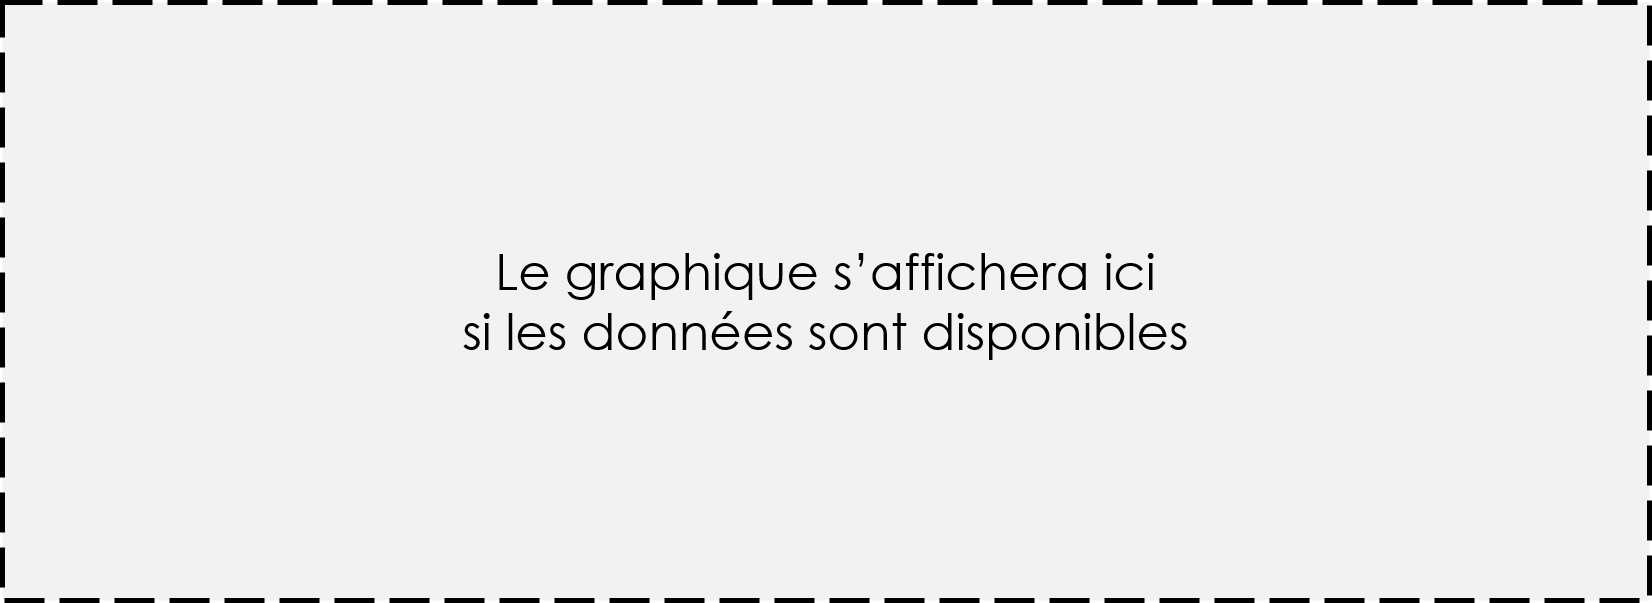
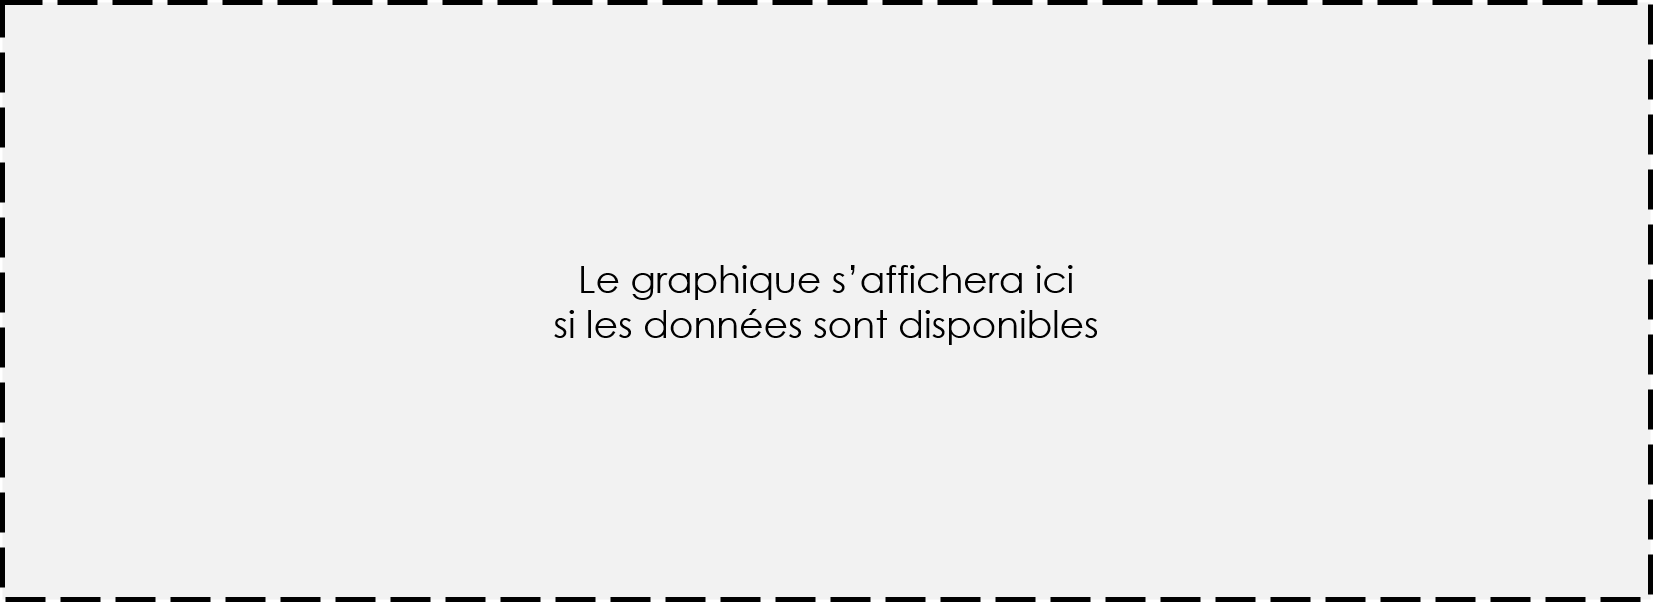
modifs

Changed region(s): [[0.2778, 0.4186, 0.7409, 0.598]]

diff --git a/client/index.html b/client/index.html
@@ -180,7 +180,7 @@
 
 <div id="reponse">
 	<p></p>
-	<img width="100%" src="" />
+	<img width="80%" src="" />
 	</div>
 
 </body>

diff --git a/client/style.css b/client/style.css
@@ -70,7 +70,7 @@ form {
 }
 
 #reponse
-{
+{ 
 	text-align:center;
 	margin:auto;
 	justify-content : center;
